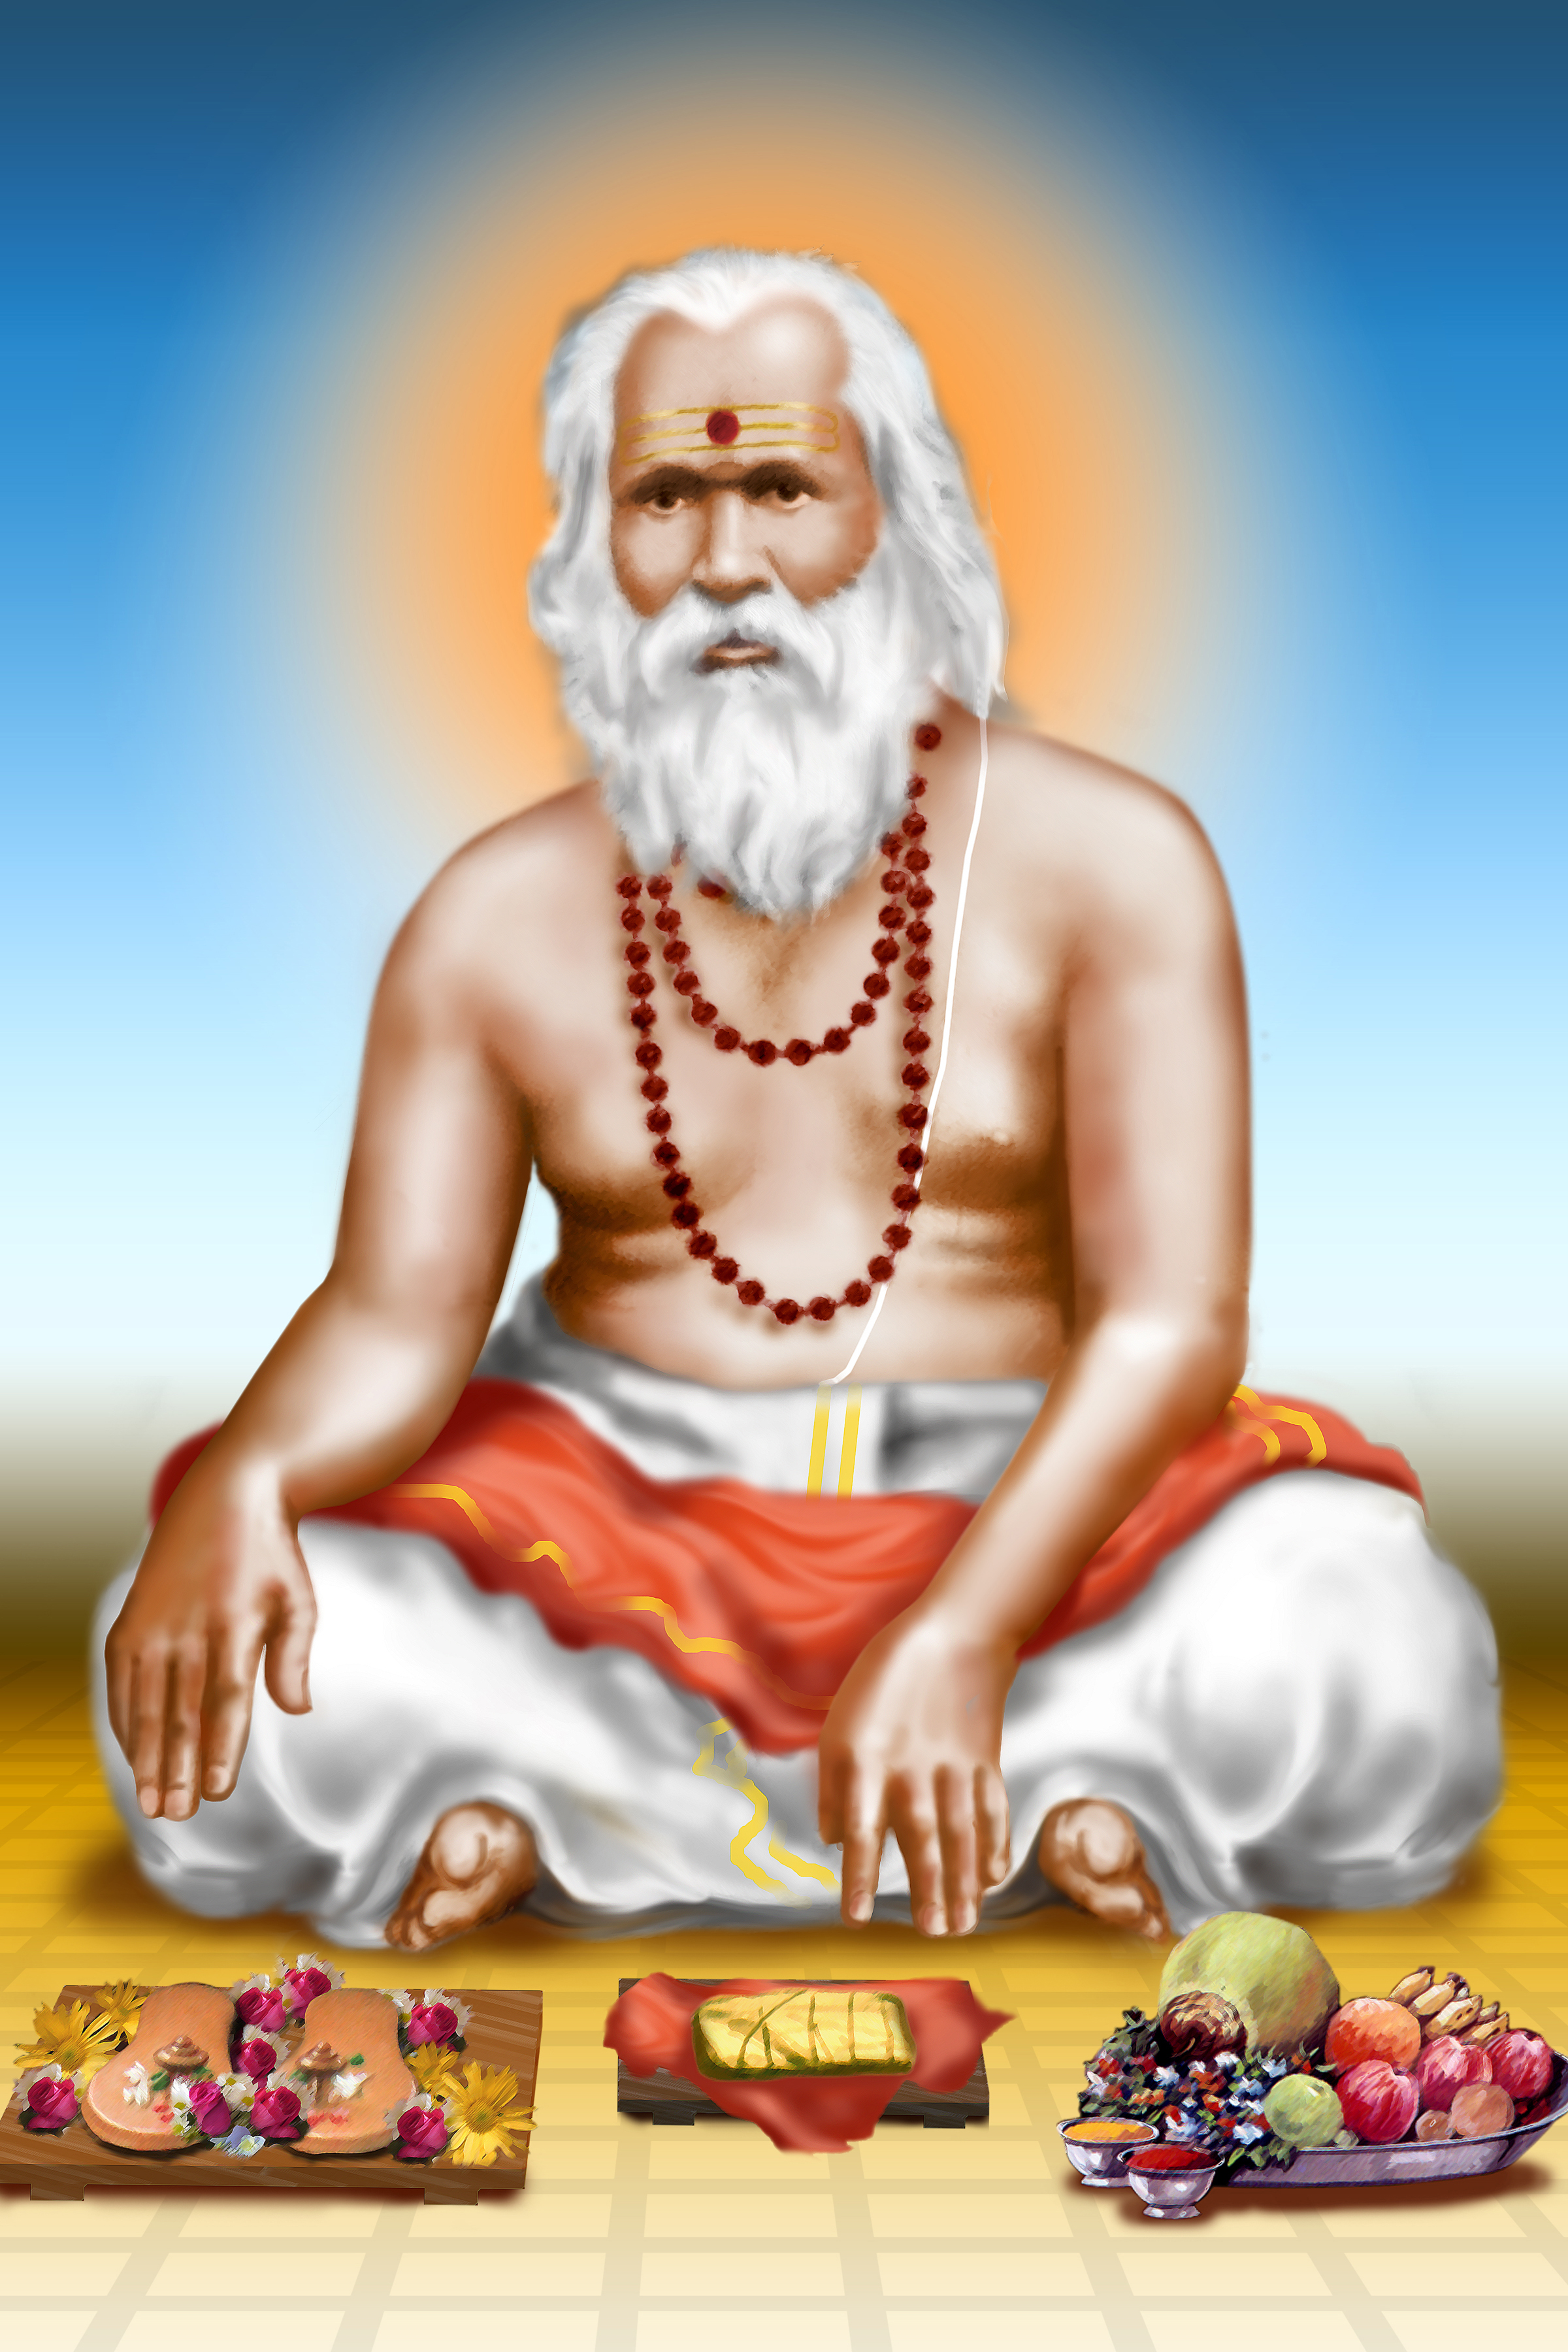
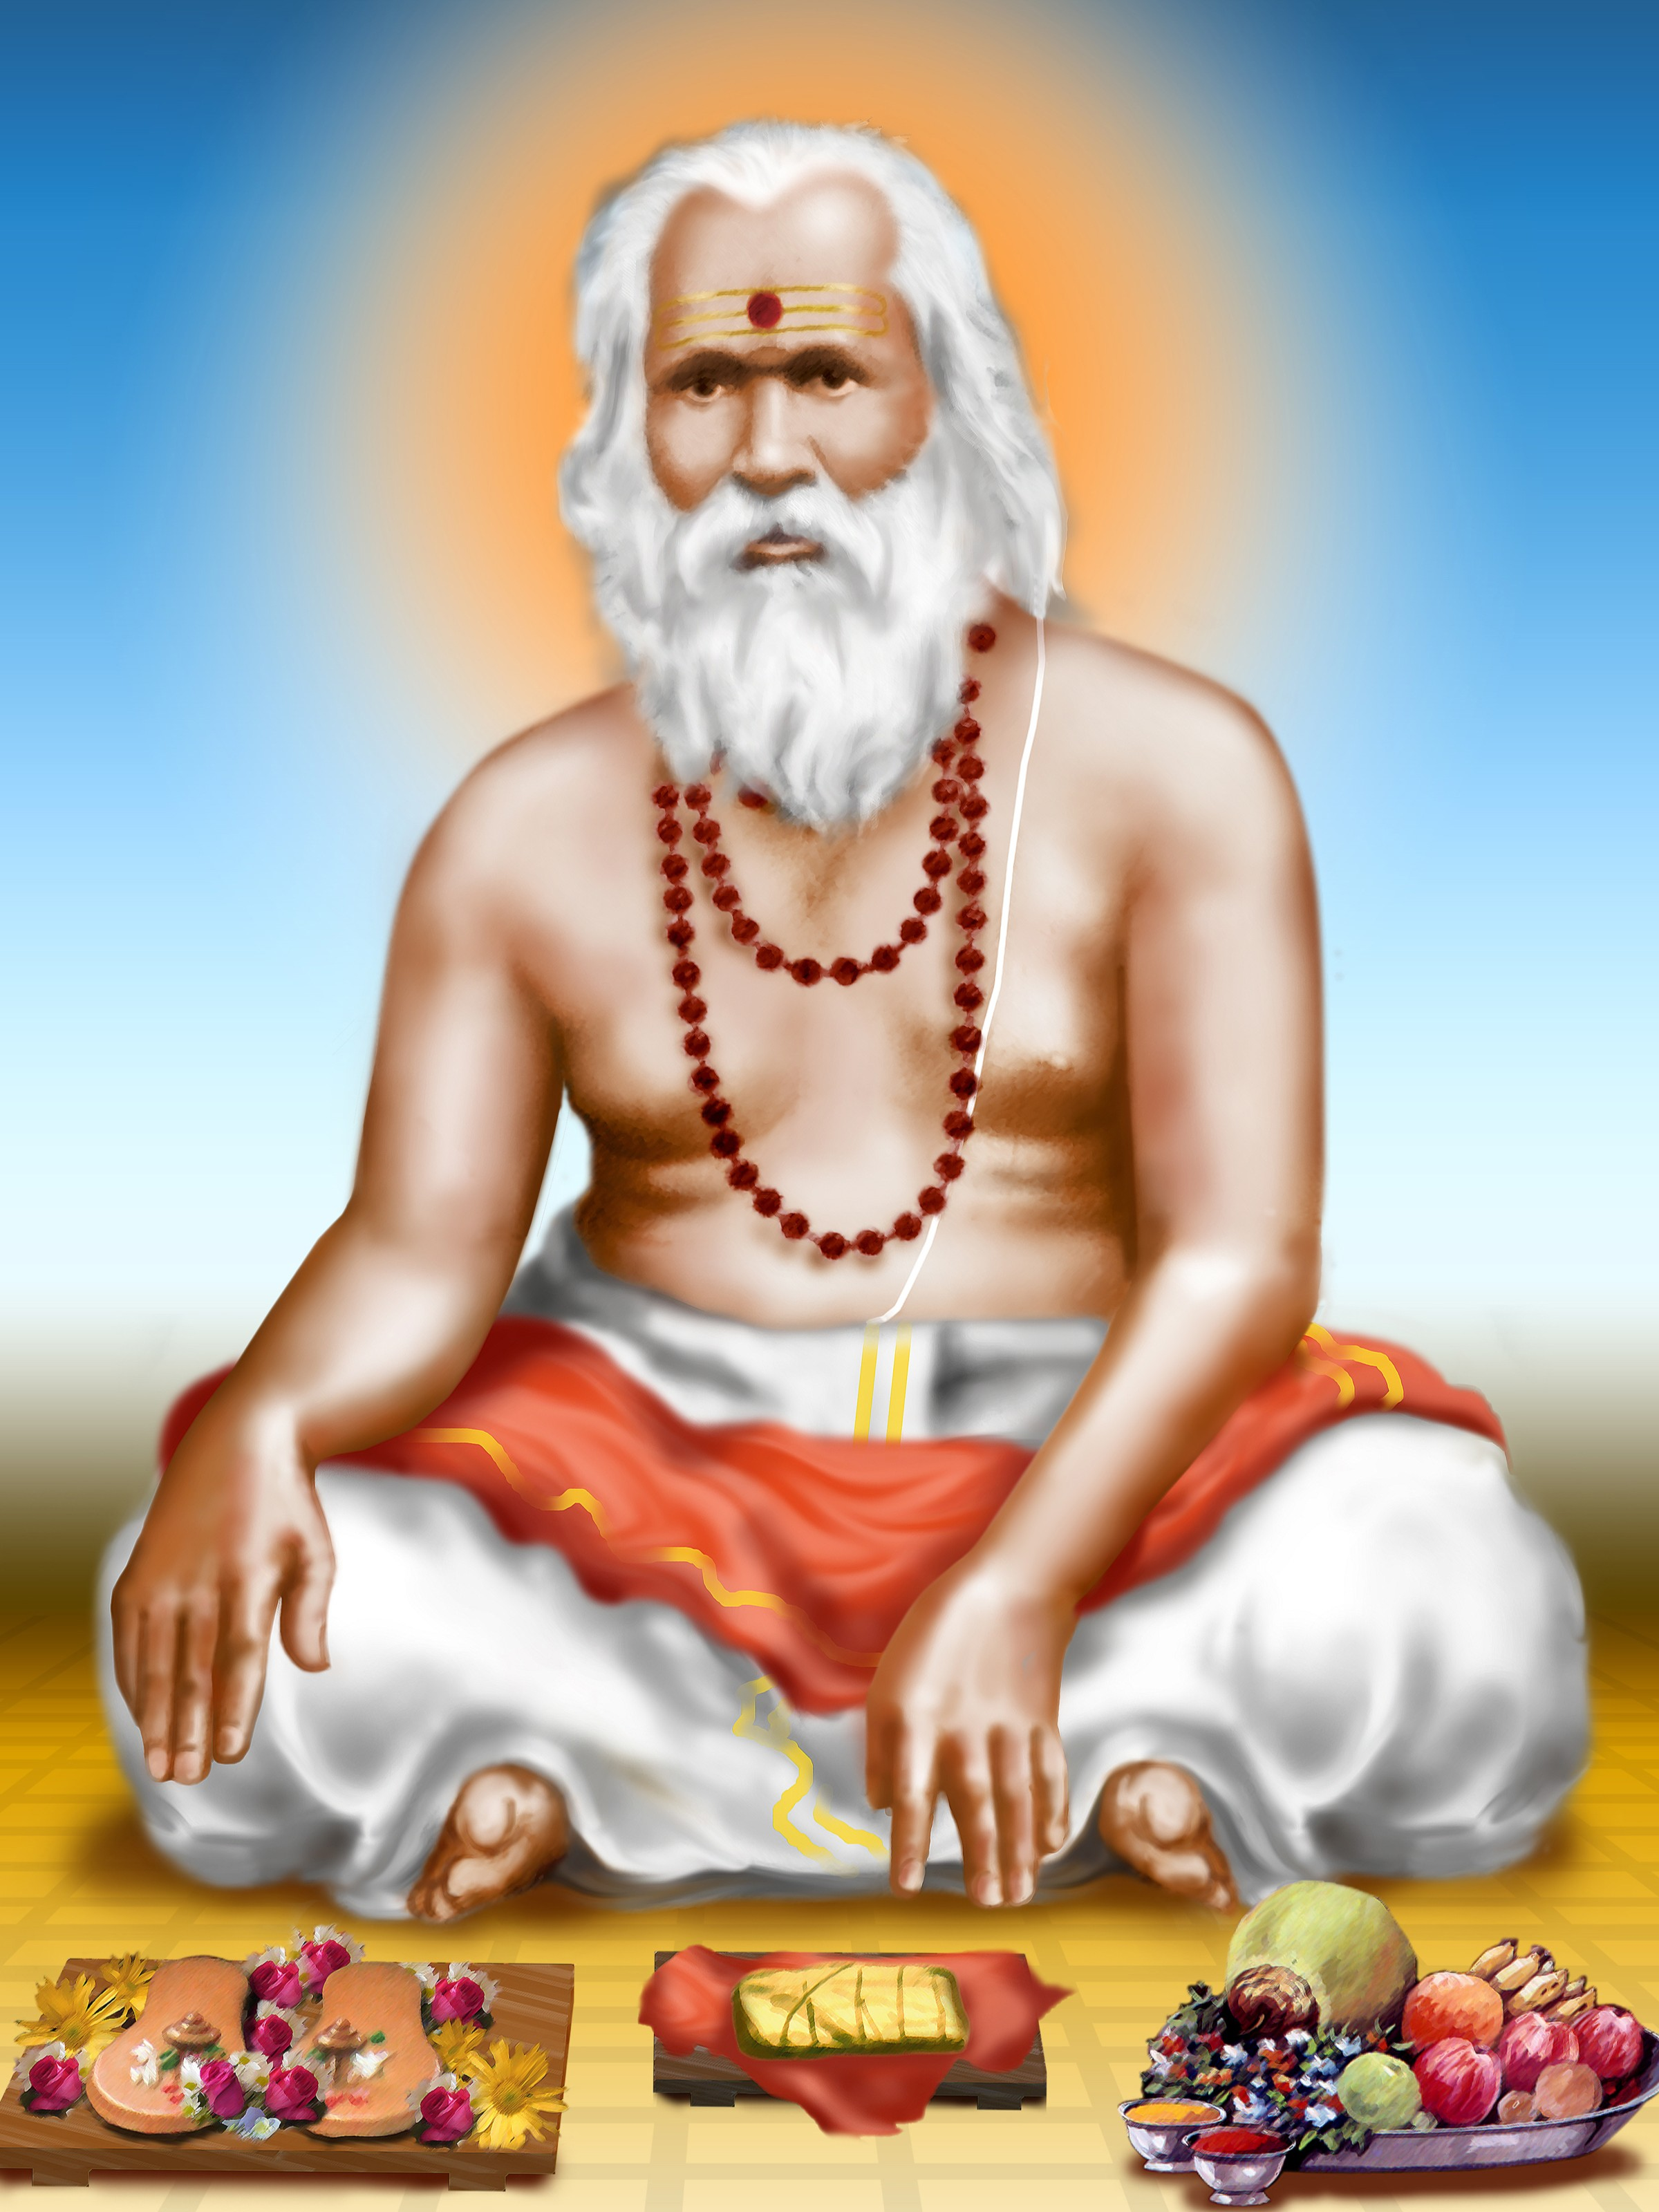
update imgs

diff --git a/src/pages/GuruParampare.jsx b/src/pages/GuruParampare.jsx
@@ -4,16 +4,16 @@ import PageHero from "../components/PageHero/PageHero";
 import bgImg from "../../assets/pancyatana.jpg.jpeg";
 import styles from "./GuruParampare.module.css";
 
-import guru1 from "../../assets/sheshachalaru_lingu.jpg.jpeg";
-import guru2 from "../../assets/narayana_bhagawan.jpeg";
+import guru1 from "../../assets/sheshachala_maharajaru.jpg.jpeg";
+import guru2 from "../../assets/N.bhavan2.jpg.jpeg";
 import guru3 from "../../assets/Shankara_bhagavanaru.jpg.jpeg";
-import guru4 from "../../assets/lingo bhagavan.jpeg";
-import guru5 from "../../assets/sheshachalaru_lingu.jpg.jpeg";
-import guru6 from "../../assets/sheshachalaru_lingu.jpg.jpeg";
-import guru7 from "../../assets/sheshachalaru_lingu.jpg.jpeg";
-import guru8 from "../../assets/sheshachalaru_lingu.jpg.jpeg";
-import guru9 from "../../assets/sheshachalaru_lingu.jpg.jpeg";
-import guru10 from "../../assets/sheshachalaru_lingu.jpg.jpeg";
+import guru4 from "../../assets/pancyatana12.jpeg";
+import guru5 from "../../assets/brahmanandaru_maharajaru.jpg.jpeg";
+// import guru6 from "../../assets/sheshachalaru_lingu.jpg.jpeg";
+// import guru7 from "../../assets/sheshachalaru_lingu.jpg.jpeg";
+// import guru8 from "../../assets/sheshachalaru_lingu.jpg.jpeg";
+// import guru9 from "../../assets/sheshachalaru_lingu.jpg.jpeg";
+// import guru10 from "../../assets/sheshachalaru_lingu.jpg.jpeg";
 
 const EN_PAGE_CONTENT = {
   heroTitle: "Guru Parampare",
@@ -70,58 +70,58 @@ const EN_GURUS = [
   },
   {
     id: "05",
-    name: "Sri Guru Name Five (1900 - 2000)",
+    name: "Shri Brahmananda Swamy",
     role: "Spiritual Reformer",
     image: guru5,
     description:
       "A saintly presence who guided people toward spiritual steadiness, ethical living, and reverence for the Sadguru tradition.",
     quote: "Faith grows where ego becomes quiet.",
   },
-  {
-    id: "06",
-    name: "Sri Guru Name Six (1900 - 2000)",
-    role: "Path of Compassion",
-    image: guru6,
-    description:
-      "He brought solace to the distressed and reminded devotees that divine love is expressed through care and service.",
-    quote: "Compassion is worship in action.",
-  },
-  {
-    id: "07",
-    name: "Sri Guru Name Seven (1900 - 2000)",
-    role: "Voice of Inner Peace",
-    image: guru7,
-    description:
-      "His life reflected inward stillness, wisdom, and the power of spiritual discipline in transforming ordinary lives.",
-    quote: "Peace is the first blessing of wisdom.",
-  },
-  {
-    id: "08",
-    name: "Sri Guru Name Eight (1900 - 2000)",
-    role: "Guide of Seekers",
-    image: guru8,
-    description:
-      "Through guidance and grace, he helped seekers move from confusion toward clarity, devotion, and strength.",
-    quote: "Guidance is grace made visible.",
-  },
-  {
-    id: "09",
-    name: "Sri Guru Name Nine (1900 - 2000)",
-    role: "Living Tradition",
-    image: guru9,
-    description:
-      "He nurtured the lineage with humility and ensured that the sacred teachings remained alive in the hearts of devotees.",
-    quote: "Tradition lives through lived truth.",
-  },
-  {
-    id: "10",
-    name: "Sri Sheshachala Sadguru (1900 - 2000)",
-    role: "Sacred Presence of Anandavana",
-    image: guru10,
-    description:
-      "A deeply revered spiritual presence whose grace, wisdom, and compassionate guidance continue to inspire devotees toward divine nearness.",
-    quote: "In the Sadguru, many hearts find home.",
-  },
+  // {
+  //   id: "06",
+  //   name: "Sri Guru Name Six (1900 - 2000)",
+  //   role: "Path of Compassion",
+  //   image: guru6,
+  //   description:
+  //     "He brought solace to the distressed and reminded devotees that divine love is expressed through care and service.",
+  //   quote: "Compassion is worship in action.",
+  // },
+  // {
+  //   id: "07",
+  //   name: "Sri Guru Name Seven (1900 - 2000)",
+  //   role: "Voice of Inner Peace",
+  //   image: guru7,
+  //   description:
+  //     "His life reflected inward stillness, wisdom, and the power of spiritual discipline in transforming ordinary lives.",
+  //   quote: "Peace is the first blessing of wisdom.",
+  // },
+  // {
+  //   id: "08",
+  //   name: "Sri Guru Name Eight (1900 - 2000)",
+  //   role: "Guide of Seekers",
+  //   image: guru8,
+  //   description:
+  //     "Through guidance and grace, he helped seekers move from confusion toward clarity, devotion, and strength.",
+  //   quote: "Guidance is grace made visible.",
+  // },
+  // {
+  //   id: "09",
+  //   name: "Sri Guru Name Nine (1900 - 2000)",
+  //   role: "Living Tradition",
+  //   image: guru9,
+  //   description:
+  //     "He nurtured the lineage with humility and ensured that the sacred teachings remained alive in the hearts of devotees.",
+  //   quote: "Tradition lives through lived truth.",
+  // },
+  // {
+  //   id: "10",
+  //   name: "Sri Sheshachala Sadguru (1900 - 2000)",
+  //   role: "Sacred Presence of Anandavana",
+  //   image: guru10,
+  //   description:
+  //     "A deeply revered spiritual presence whose grace, wisdom, and compassionate guidance continue to inspire devotees toward divine nearness.",
+  //   quote: "In the Sadguru, many hearts find home.",
+  // },
 ];
 
 const KN_GURUS = [
@@ -170,51 +170,51 @@ const KN_GURUS = [
       "ಸದ್ಗುರು ಪರಂಪರೆಯ ಭಕ್ತಿ ಮತ್ತು ಗೌರವದ ಜೊತೆಗೆ ಜನರನ್ನು ಆತ್ಮಸ್ಥೈರ್ಯ ಮತ್ತು ಸತ್ಚರಿತ್ರೆಯತ್ತ ನಡೆಸಿದ ಸಂತಸ್ವರೂಪರು.",
     quote: "ಅಹಂಕಾರ ಮೌನವಾದಲ್ಲಿ ಭಕ್ತಿ ಬೆಳೆಯುತ್ತದೆ.",
   },
-  {
-    id: "06",
-    name: "ಶ್ರೀ ಗುರು ಹೆಸರು ಆರು (1900 - 2000)",
-    role: "ಕರುಣೆಯ ಮಾರ್ಗ",
-    image: guru6,
-    description:
-      "ಅವರು ದುಃಖಿತರಿಗೆ ಸಾಂತ್ವನ ನೀಡಿದರು ಮತ್ತು ದೈವಿಕ ಪ್ರೀತಿ ಸೇವೆ ಹಾಗೂ ಕಾಳಜಿಯ ರೂಪದಲ್ಲಿ ವ್ಯಕ್ತವಾಗುತ್ತದೆ ಎಂದು ಭಕ್ತರಿಗೆ ನೆನಪಿಸಿದರು.",
-    quote: "ಕರುಣೆ ಕ್ರಿಯೆಯಲ್ಲಿ ವ್ಯಕ್ತವಾಗುವ ಪೂಜೆಯಾಗಿದೆ.",
-  },
-  {
-    id: "07",
-    name: "ಶ್ರೀ ಗುರು ಹೆಸರು ಏಳು (1900 - 2000)",
-    role: "ಆಂತರಿಕ ಶಾಂತಿಯ ಧ್ವನಿ",
-    image: guru7,
-    description:
-      "ಅವರ ಜೀವನವು ಆಂತರಿಕ ನಿಶ್ಶಬ್ದತೆ, ಜ್ಞಾನ ಮತ್ತು ಆಧ್ಯಾತ್ಮಿಕ ಶಿಸ್ತಿನ ಪರಿವರ್ತನಾ ಶಕ್ತಿಯನ್ನು ಪ್ರತಿಬಿಂಬಿಸಿತು.",
-    quote: "ಶಾಂತಿಯೇ ಜ್ಞಾನದ ಮೊದಲ ಆಶೀರ್ವಾದ.",
-  },
-  {
-    id: "08",
-    name: "ಶ್ರೀ ಗುರು ಹೆಸರು ಎಂಟು (1900 - 2000)",
-    role: "ಸಾಧಕರ ಮಾರ್ಗದರ್ಶಕ",
-    image: guru8,
-    description:
-      "ತಮ್ಮ ಮಾರ್ಗದರ್ಶನ ಮತ್ತು ಕೃಪೆಯಿಂದ ಅವರು ಸಾಧಕರನ್ನು ಗೊಂದಲದಿಂದ ಸ್ಪಷ್ಟತೆ, ಭಕ್ತಿ ಮತ್ತು ಶಕ್ತಿಯತ್ತ ಕರೆದೊಯ್ದರು.",
-    quote: "ಮಾರ್ಗದರ್ಶನವೆಂದರೆ ಗೋಚರವಾಗುವ ಕೃಪೆ.",
-  },
-  {
-    id: "09",
-    name: "ಶ್ರೀ ಗುರು ಹೆಸರು ಒಂಬತ್ತು (1900 - 2000)",
-    role: "ಜೀವಂತ ಪರಂಪರೆ",
-    image: guru9,
-    description:
-      "ಅವರು ವಿನಯದಿಂದ ಪರಂಪರೆಯನ್ನು ಪೋಷಿಸಿ, ಪವಿತ್ರ ಬೋಧನೆಗಳು ಭಕ್ತರ ಹೃದಯಗಳಲ್ಲಿ ಜೀವಂತವಾಗಿರಲು ಕಾರಣರಾದರು.",
-    quote: "ಜೀವನದಲ್ಲಿ ಆಚಾರವಾದ ಸತ್ಯದಿಂದಲೇ ಪರಂಪರೆ ಜೀವಂತವಾಗಿರುತ್ತದೆ.",
-  },
-  {
-    id: "10",
-    name: "ಶ್ರೀ ಶೇಷಾಚಲ ಸದ್ಗುರು (1900 - 2000)",
-    role: "ಆನಂದವನದ ಪವಿತ್ರ ಸಾನ್ನಿಧ್ಯ",
-    image: guru10,
-    description:
-      "ಅವರ ಕೃಪೆ, ಜ್ಞಾನ ಮತ್ತು ಕರುಣಾಮಯ ಮಾರ್ಗದರ್ಶನದಿಂದ ಭಕ್ತರು ದೈವಿಕ ಸಮೀಪತೆಯತ್ತ ಇಂದಿಗೂ ಪ್ರೇರಿತರಾಗುತ್ತಿದ್ದಾರೆ.",
-    quote: "ಸದ್ಗುರುವಿನಲ್ಲಿ ಅನೇಕ ಹೃದಯಗಳು ತಮ್ಮ ಮನೆ ಕಂಡುಕೊಳ್ಳುತ್ತವೆ.",
-  },
+  // {
+  //   id: "06",
+  //   name: "ಶ್ರೀ ಗುರು ಹೆಸರು ಆರು (1900 - 2000)",
+  //   role: "ಕರುಣೆಯ ಮಾರ್ಗ",
+  //   image: guru6,
+  //   description:
+  //     "ಅವರು ದುಃಖಿತರಿಗೆ ಸಾಂತ್ವನ ನೀಡಿದರು ಮತ್ತು ದೈವಿಕ ಪ್ರೀತಿ ಸೇವೆ ಹಾಗೂ ಕಾಳಜಿಯ ರೂಪದಲ್ಲಿ ವ್ಯಕ್ತವಾಗುತ್ತದೆ ಎಂದು ಭಕ್ತರಿಗೆ ನೆನಪಿಸಿದರು.",
+  //   quote: "ಕರುಣೆ ಕ್ರಿಯೆಯಲ್ಲಿ ವ್ಯಕ್ತವಾಗುವ ಪೂಜೆಯಾಗಿದೆ.",
+  // },
+  // {
+  //   id: "07",
+  //   name: "ಶ್ರೀ ಗುರು ಹೆಸರು ಏಳು (1900 - 2000)",
+  //   role: "ಆಂತರಿಕ ಶಾಂತಿಯ ಧ್ವನಿ",
+  //   image: guru7,
+  //   description:
+  //     "ಅವರ ಜೀವನವು ಆಂತರಿಕ ನಿಶ್ಶಬ್ದತೆ, ಜ್ಞಾನ ಮತ್ತು ಆಧ್ಯಾತ್ಮಿಕ ಶಿಸ್ತಿನ ಪರಿವರ್ತನಾ ಶಕ್ತಿಯನ್ನು ಪ್ರತಿಬಿಂಬಿಸಿತು.",
+  //   quote: "ಶಾಂತಿಯೇ ಜ್ಞಾನದ ಮೊದಲ ಆಶೀರ್ವಾದ.",
+  // },
+  // {
+  //   id: "08",
+  //   name: "ಶ್ರೀ ಗುರು ಹೆಸರು ಎಂಟು (1900 - 2000)",
+  //   role: "ಸಾಧಕರ ಮಾರ್ಗದರ್ಶಕ",
+  //   image: guru8,
+  //   description:
+  //     "ತಮ್ಮ ಮಾರ್ಗದರ್ಶನ ಮತ್ತು ಕೃಪೆಯಿಂದ ಅವರು ಸಾಧಕರನ್ನು ಗೊಂದಲದಿಂದ ಸ್ಪಷ್ಟತೆ, ಭಕ್ತಿ ಮತ್ತು ಶಕ್ತಿಯತ್ತ ಕರೆದೊಯ್ದರು.",
+  //   quote: "ಮಾರ್ಗದರ್ಶನವೆಂದರೆ ಗೋಚರವಾಗುವ ಕೃಪೆ.",
+  // },
+  // {
+  //   id: "09",
+  //   name: "ಶ್ರೀ ಗುರು ಹೆಸರು ಒಂಬತ್ತು (1900 - 2000)",
+  //   role: "ಜೀವಂತ ಪರಂಪರೆ",
+  //   image: guru9,
+  //   description:
+  //     "ಅವರು ವಿನಯದಿಂದ ಪರಂಪರೆಯನ್ನು ಪೋಷಿಸಿ, ಪವಿತ್ರ ಬೋಧನೆಗಳು ಭಕ್ತರ ಹೃದಯಗಳಲ್ಲಿ ಜೀವಂತವಾಗಿರಲು ಕಾರಣರಾದರು.",
+  //   quote: "ಜೀವನದಲ್ಲಿ ಆಚಾರವಾದ ಸತ್ಯದಿಂದಲೇ ಪರಂಪರೆ ಜೀವಂತವಾಗಿರುತ್ತದೆ.",
+  // },
+  // {
+  //   id: "10",
+  //   name: "ಶ್ರೀ ಶೇಷಾಚಲ ಸದ್ಗುರು (1900 - 2000)",
+  //   role: "ಆನಂದವನದ ಪವಿತ್ರ ಸಾನ್ನಿಧ್ಯ",
+  //   image: guru10,
+  //   description:
+  //     "ಅವರ ಕೃಪೆ, ಜ್ಞಾನ ಮತ್ತು ಕರುಣಾಮಯ ಮಾರ್ಗದರ್ಶನದಿಂದ ಭಕ್ತರು ದೈವಿಕ ಸಮೀಪತೆಯತ್ತ ಇಂದಿಗೂ ಪ್ರೇರಿತರಾಗುತ್ತಿದ್ದಾರೆ.",
+  //   quote: "ಸದ್ಗುರುವಿನಲ್ಲಿ ಅನೇಕ ಹೃದಯಗಳು ತಮ್ಮ ಮನೆ ಕಂಡುಕೊಳ್ಳುತ್ತವೆ.",
+  // },
 ];
 
 export default function GuruParampare() {

diff --git a/src/pages/GuruParampare.module.css b/src/pages/GuruParampare.module.css
@@ -64,8 +64,7 @@
 
 .imageFrame {
   position: relative;
-  min-height: 420px;
-  max-height: 540px;
+  aspect-ratio: 3 / 4;   /* Portrait ratio — adjust to match your images */
   border-radius: 30px;
   overflow: hidden;
   background: #f7f1ea;
@@ -78,7 +77,7 @@
 .guruImage {
   width: 100%;
   height: 100%;
-  object-fit: contain;
+  object-fit: contain;   /* Keep contain so nothing is cropped */
   display: block;
 }
 